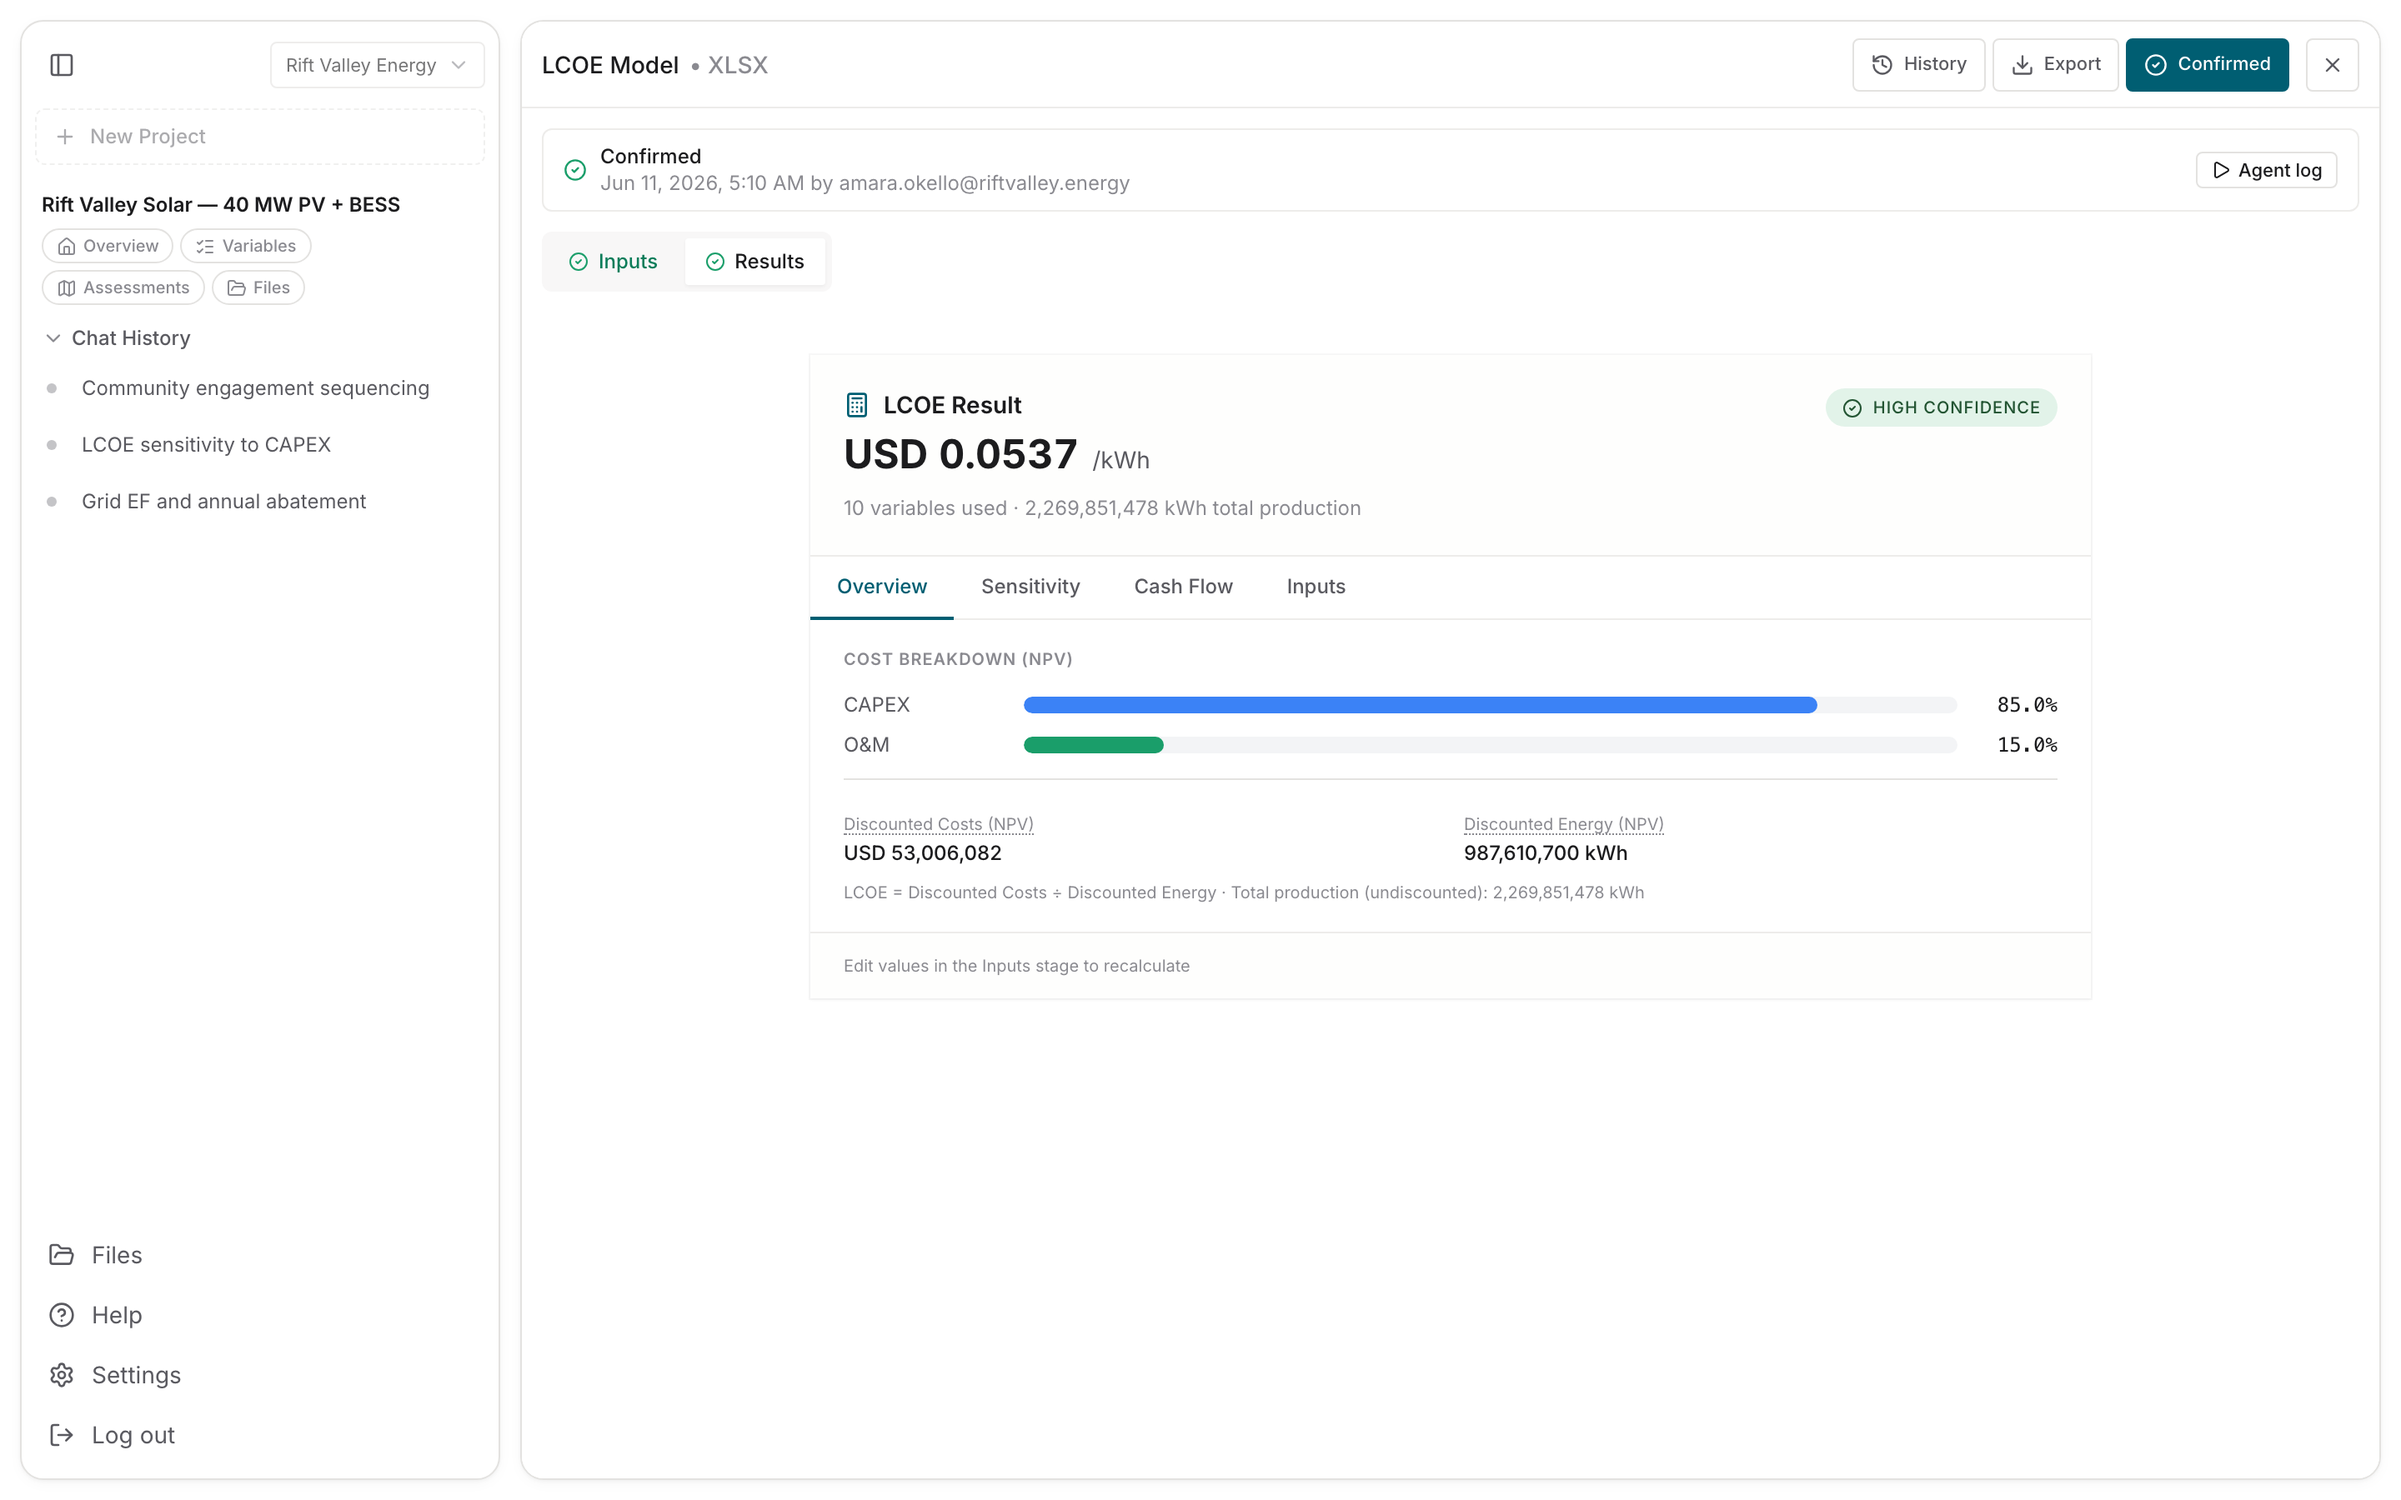
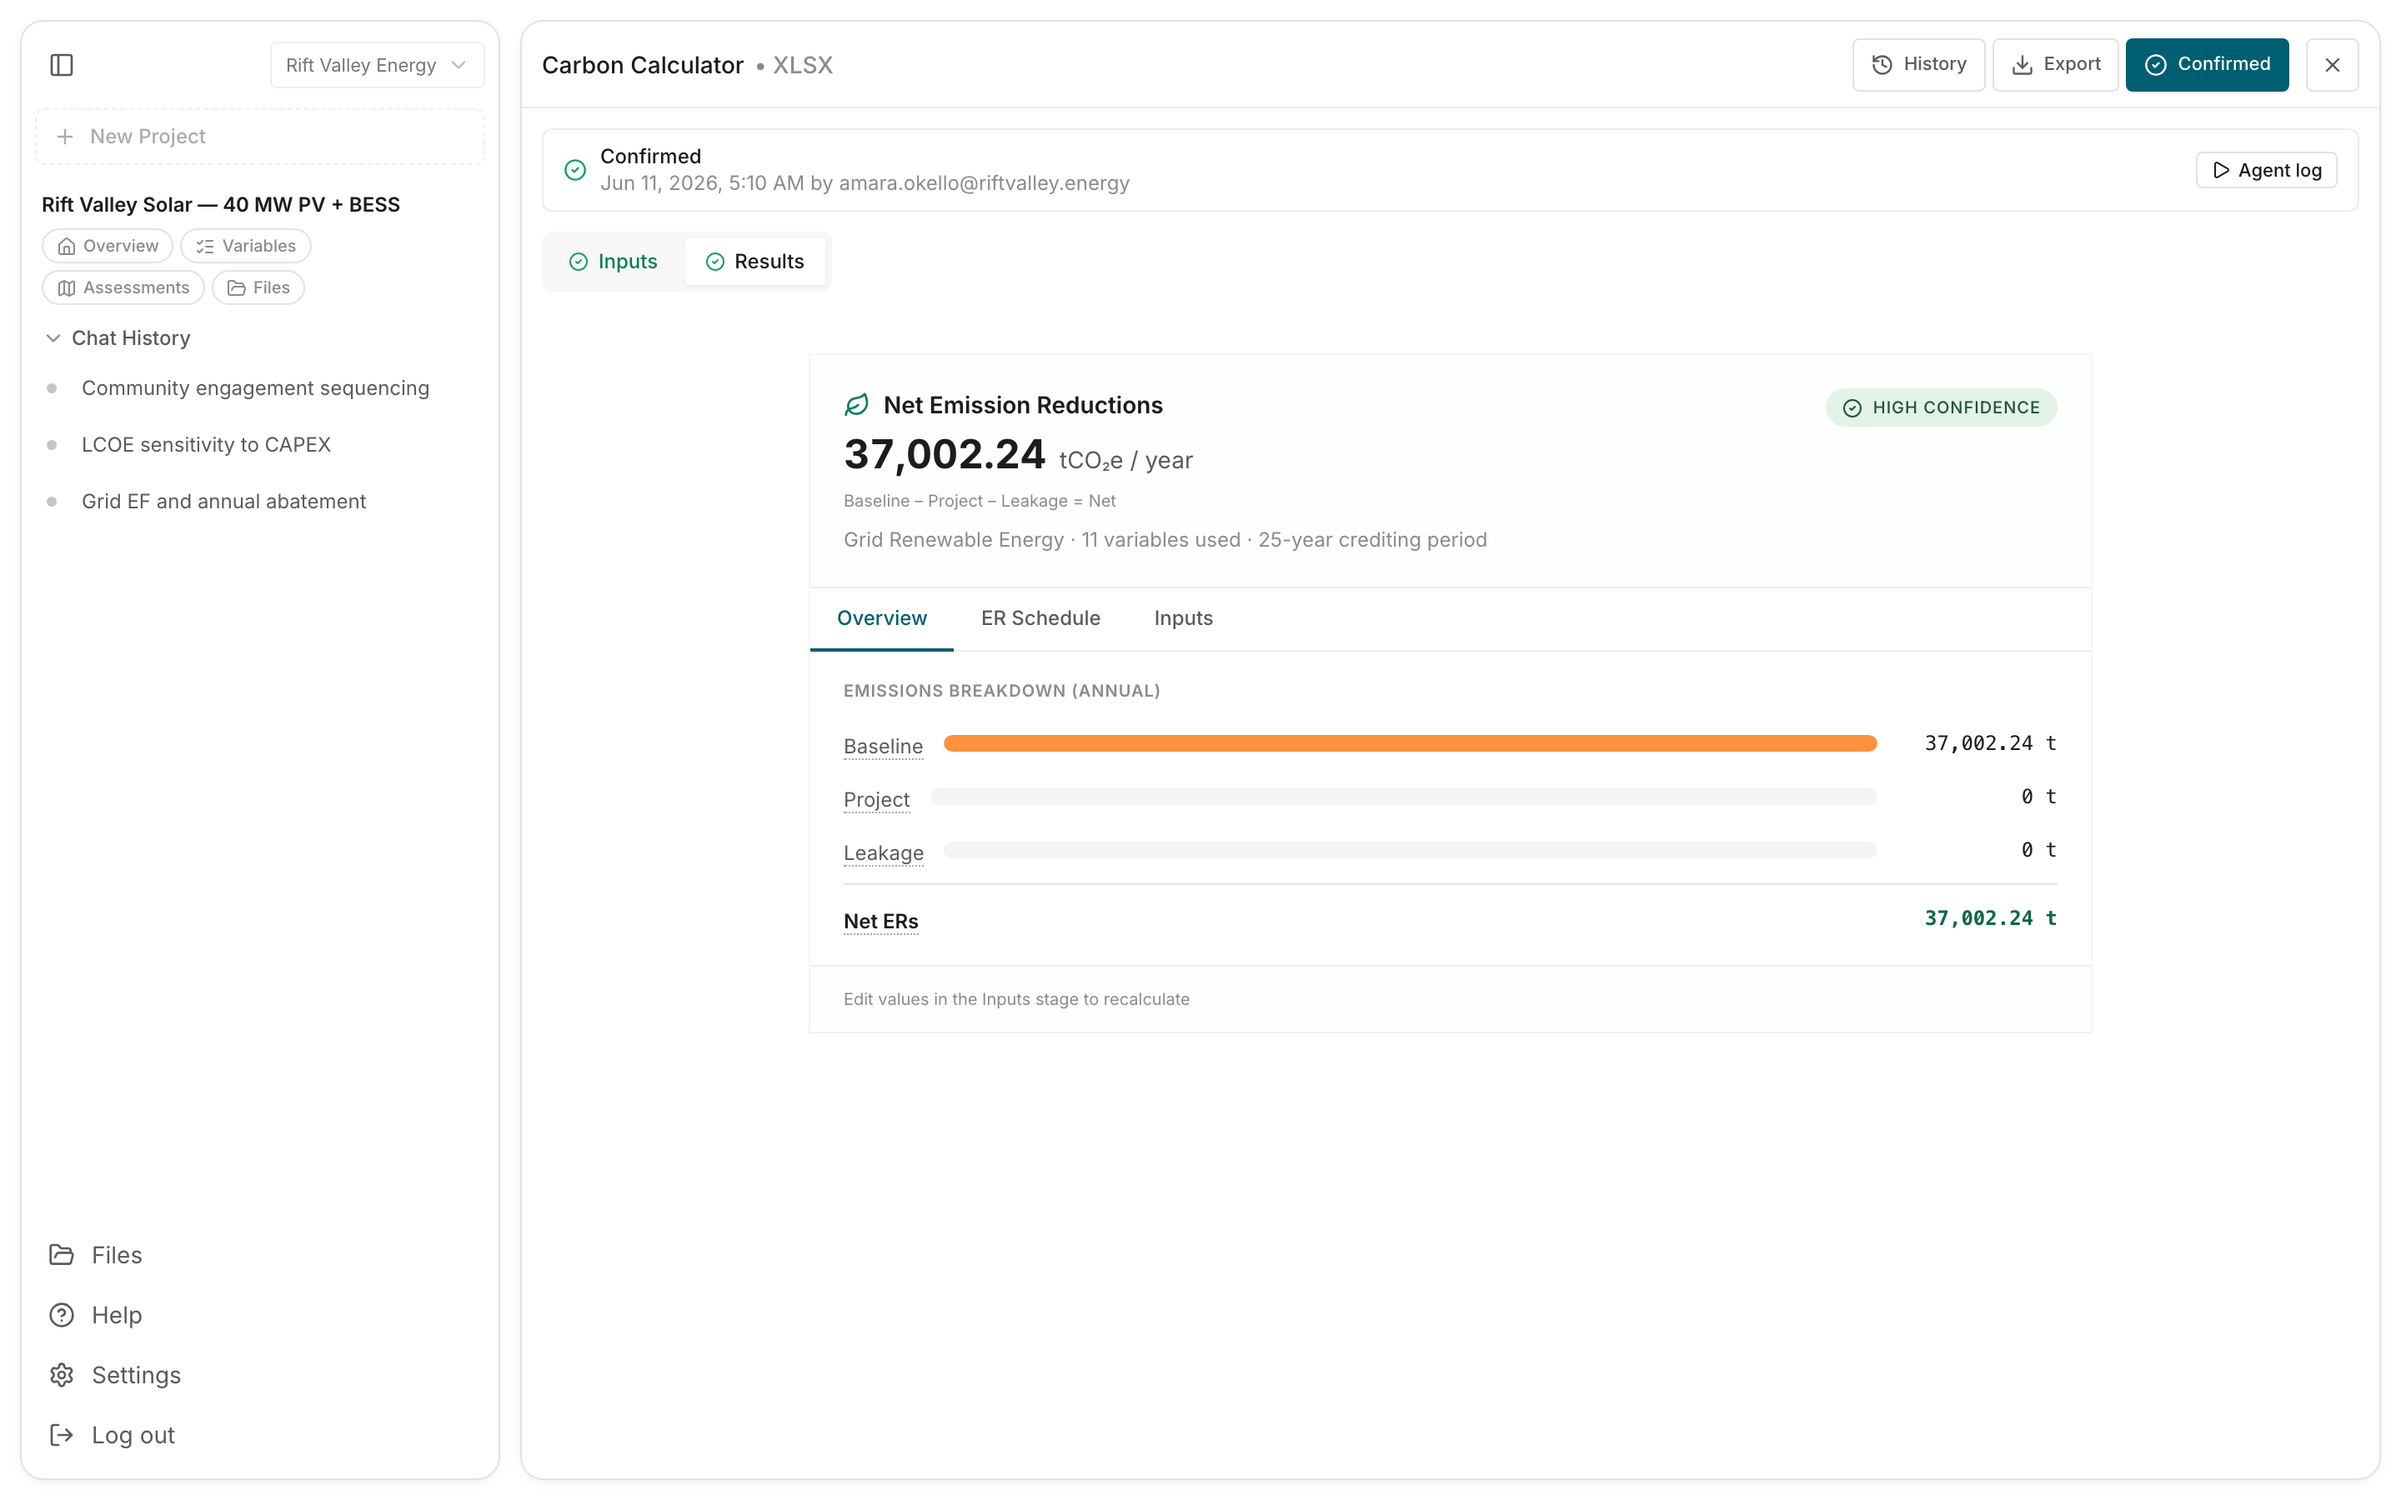
Polish README demo screenshots and captions.
Swap the full-screen shot to carbon reductions, collapse the variables sidebar, and clarify the overview caption.

diff --git a/README.md b/README.md
@@ -34,14 +34,14 @@ From the built-in demo (`/demo`) — a sample diligence workspace for **Rift Val
 <p align="center"><em>Chat-first diligence with an LCOE assessment float</em></p>
 
 <p align="center">
-  <img src="docs/images/demo-assessment.png" alt="Full-screen LCOE assessment results" width="900" />
+  <img src="docs/images/demo-assessment.png" alt="Full-screen carbon calculator with net emission reductions" width="900" />
 </p>
-<p align="center"><em>Full-screen assessment — LCOE results with cost breakdown</em></p>
+<p align="center"><em>Full-screen assessment — carbon emissions reduction results</em></p>
 
 <p align="center">
   <img src="docs/images/demo-overview.png" alt="Project overview status rubric" width="900" />
 </p>
-<p align="center"><em>Overview — deal health across evidence, technical, funding, and risk</em></p>
+<p align="center"><em>Overview page shows project health...</em></p>
 
 <p align="center">
   <img src="docs/images/demo-variables.png" alt="Variables table with capacity factor detail" width="900" />
